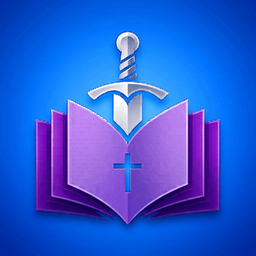
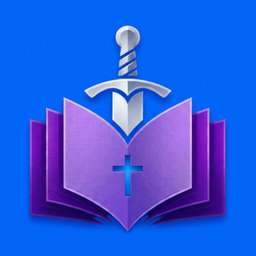
Updated look

diff --git a/assets/css/style.css b/assets/css/style.css
@@ -1,6 +1,7 @@
 :root {
     --primary-purple: #874DCE;
     --primary-purple-dark: #6E3AB0;
+    --pocketsword-blue: #0064F7;
     --slate-gray: #536872;
     --dark-bg: #1a1a1a;
     --light-bg: #fdfdfd;
@@ -51,6 +52,8 @@ header {
     width: 45px;
     height: 45px;
     object-fit: contain;
+    /* The heavy book sits low in the artwork; lift it so it looks centred with the text */
+    transform: translateY(-4px);
 }
 
 .logo-text {
@@ -74,9 +77,10 @@ nav {
 }
 
 nav a {
+    font-family: 'Noto Serif', 'Segoe UI', serif;
     text-decoration: none;
     color: var(--primary-purple);
-    font-weight: 600;
+    font-weight: 700;
     font-size: 1.05rem;
     transition: color 0.3s;
 }
@@ -102,7 +106,7 @@ nav a[aria-current="page"] {
 
 /* Hero Section */
 .hero {
-    padding: 5rem 2rem;
+    padding: 2.5rem 2rem 3.5rem 2rem;
     text-align: center;
     background: linear-gradient(135deg, #f9f5fc 0%, #f0f4f6 100%);
     border-bottom: 1px solid #eef2f4;
@@ -117,7 +121,7 @@ nav a[aria-current="page"] {
     width: 120px;
     height: 120px;
     object-fit: contain;
-    margin-bottom: 1.5rem;
+    margin-bottom: 1rem;
 }
 
 .hero h1 {
@@ -134,14 +138,14 @@ nav a[aria-current="page"] {
     font-size: 1.6rem;
     color: var(--slate-gray);
     font-weight: 600;
-    margin-bottom: 2rem;
+    margin-bottom: 1.5rem;
 }
 
 .hero-description {
     font-size: 1.2rem;
     color: var(--text-main);
     max-width: 750px;
-    margin: 0 auto 2.5rem auto;
+    margin: 0 auto 2rem auto;
 }
 
 .hero-description a {
@@ -194,7 +198,7 @@ nav a[aria-current="page"] {
     display: flex;
     align-items: center;
     gap: 1.2rem;
-    margin-bottom: 2.5rem;
+    margin-bottom: 1.75rem;
 }
 
 .app-icon {
@@ -206,6 +210,7 @@ nav a[aria-current="page"] {
 }
 
 .legal .app-heading h1 {
+    color: var(--pocketsword-blue);
     margin-bottom: 0.2rem;
 }
 
@@ -278,7 +283,7 @@ nav a[aria-current="page"] {
 .legal {
     max-width: 800px;
     margin: 0 auto;
-    padding: 4rem 2rem 5rem 2rem;
+    padding: 2rem 2rem 4rem 2rem;
 }
 
 .legal h1 {
@@ -292,13 +297,13 @@ nav a[aria-current="page"] {
 .legal .updated {
     color: var(--text-muted);
     font-size: 0.95rem;
-    margin-bottom: 2.5rem;
+    margin-bottom: 1.75rem;
 }
 
 .legal h2 {
     font-size: 1.3rem;
     color: #000000;
-    margin: 2.2rem 0 0.7rem 0;
+    margin: 1.6rem 0 0.5rem 0;
 }
 
 .legal p,

diff --git a/index.html b/index.html
@@ -4,7 +4,7 @@
     <meta charset="UTF-8">
     <meta name="viewport" content="width=device-width, initial-scale=1.0">
     <title>Logos Hub - A Digital Platform for God's Word</title>
-    <meta name="description" content="Making God’s Word easier to find, read and share. Logos Hub is an Australian non-profit helping people access the Bible in the languages they understand best, with free, open tools built on open-source Bible translations and study resources from The CrossWire Bible Society and eBible.org.">
+    <meta name="description" content="Making God’s Word easier to find, read and share. Logos Hub is a non-profit organization helping people to access the Bible in the languages they understand best, with free, open tools built on open-source Bible translations and study resources from The CrossWire Bible Society and eBible.org.">
     <link rel="icon" type="image/png" href="assets/img/favicon.png">
     <link rel="preconnect" href="https://fonts.googleapis.com">
     <link rel="preconnect" href="https://fonts.gstatic.com" crossorigin>
@@ -34,7 +34,7 @@
             <h1>LOGOS HUB</h1>
             <h2>Making God’s Word easier to find, read and share</h2>
             <p class="hero-description">
-                Logos Hub is an Australian non-profit helping people access the Bible in the languages they understand best. We build free, open tools that connect people to open-source Bible translations and study resources from <a href="https://crosswire.org" rel="noopener">The CrossWire Bible Society</a> and <a href="https://ebible.org" rel="noopener">eBible.org</a>.
+                Logos Hub is a non-profit organization helping people to access the Bible in the languages they understand best. We build free, open tools that connect people to open-source Bible translations and study resources from <a href="https://crosswire.org" rel="noopener">The CrossWire Bible Society</a> and <a href="https://ebible.org" rel="noopener">eBible.org</a>.
             </p>
             <div class="hero-buttons">
                 <a href="pocketsword.html" class="btn-cta btn-app">

diff --git a/pocketsword.html b/pocketsword.html
@@ -4,7 +4,7 @@
     <meta charset="UTF-8">
     <meta name="viewport" content="width=device-width, initial-scale=1.0">
     <title>PocketSword - Logos Hub</title>
-    <meta name="description" content="PocketSword is a free, open-source Bible reader and study app for iPhone and iPad.">
+    <meta name="description" content="PocketSword is a free Bible reader and study app for iPhone and iPad.">
     <link rel="icon" type="image/png" href="assets/img/favicon.png">
     <link rel="preconnect" href="https://fonts.googleapis.com">
     <link rel="preconnect" href="https://fonts.gstatic.com" crossorigin>
@@ -32,11 +32,11 @@
             <img class="app-icon" src="assets/img/pocketsword-icon.png" alt="PocketSword app icon" width="88" height="88">
             <div>
                 <h1>PocketSword</h1>
-                <p class="updated">A free, open-source Bible reader and study app for iPhone and iPad.</p>
+                <p class="updated">A free Bible reader and study app for iPhone and iPad.</p>
             </div>
         </div>
 
-        <p>PocketSword is built on the CrossWire SWORD engine and revives the original work of Nic Carter and the CrossWire Bible Society. It is published by Logos Hub Ltd, a non-profit based in Australia.</p>
+        <p>PocketSword provides a Bible reader for CrossWire Bible Society SWORD modules and eBible.org Bible modules. Published by Logos Hub Ltd.</p>
 
         <h2>What it does</h2>
         <ul>
@@ -56,7 +56,6 @@
             <li><a href="pocketsword-privacy.html">Privacy Policy</a></li>
             <li><a href="pocketsword-support.html">Support</a></li>
             <li><a href="pocketsword-modules.html">Make your own modules</a></li>
-            <li><a href="https://github.com/logoshub-org/pocketsword" rel="noopener">Source code on GitHub</a> (GPLv2)</li>
         </ul>
     </main>
 
